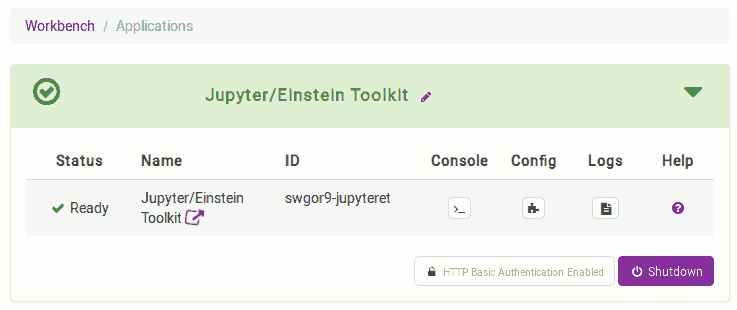
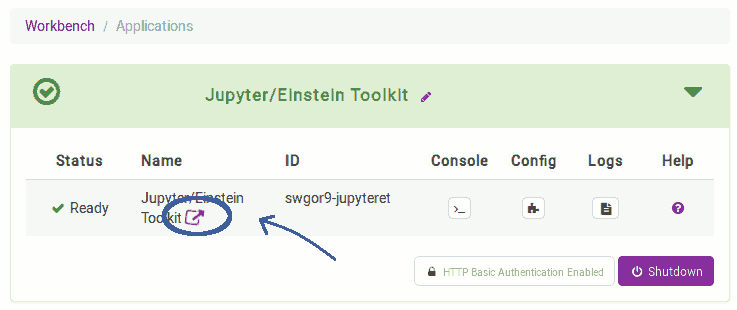
tutorial: update images, add snapshot of http authentication

diff --git a/documentation/new-user-tutorial.html b/documentation/new-user-tutorial.html
@@ -23,12 +23,12 @@
         <a href="mailto:users@einsteintoolkit.org">users@einsteintoolkit.org</a>.
         <h2>Advanced topic</h2>
         If, instead of using the web-based service, you would rather like to
-        run the tutorial on your own laptop, then please use a read inline
+        run the tutorial on your own laptop, then please use a read only
         version of the notebook
         <a href="https://nbviewer.jupyter.org/github/nds-org/jupyter-et/blob/master/CactusTutorial.ipynb">here</a>
         instead. <em>This read only copy is currently experimental</em>
         </p>
-        <h2>Getting an account</h2>
+        <h2>Getting an account (in 5 minutes of time) </h2>
         <p>Before you can get started you will require and account on the tutorial
         server, which is hosted by the <a href="http://www.nationaldataservice.org/">National Data Service</a>.
         Please go to
@@ -81,8 +81,11 @@
         Once the application has fully started up, the screen will turn green
         and a small icon appears next to "Jupyter/Einstein Toolkit" in the
         second column. Click on in now to go to the jupyter notebook server.
+        You will be ask to authenticate with your workbench username and
+        password.
         <br>
         <img class="img-responsive img-thumbnail img-rounded" src="../images/new-users-tutorial/08-image-ready.png">
+        <img class="img-responsive img-thumbnail img-rounded" src="../images/new-users-tutorial/12-authentication-request.png">
         <br>
         You will be presented with a view of the directories avaialbe inside of
         the application, which in this case is just a single directory called
